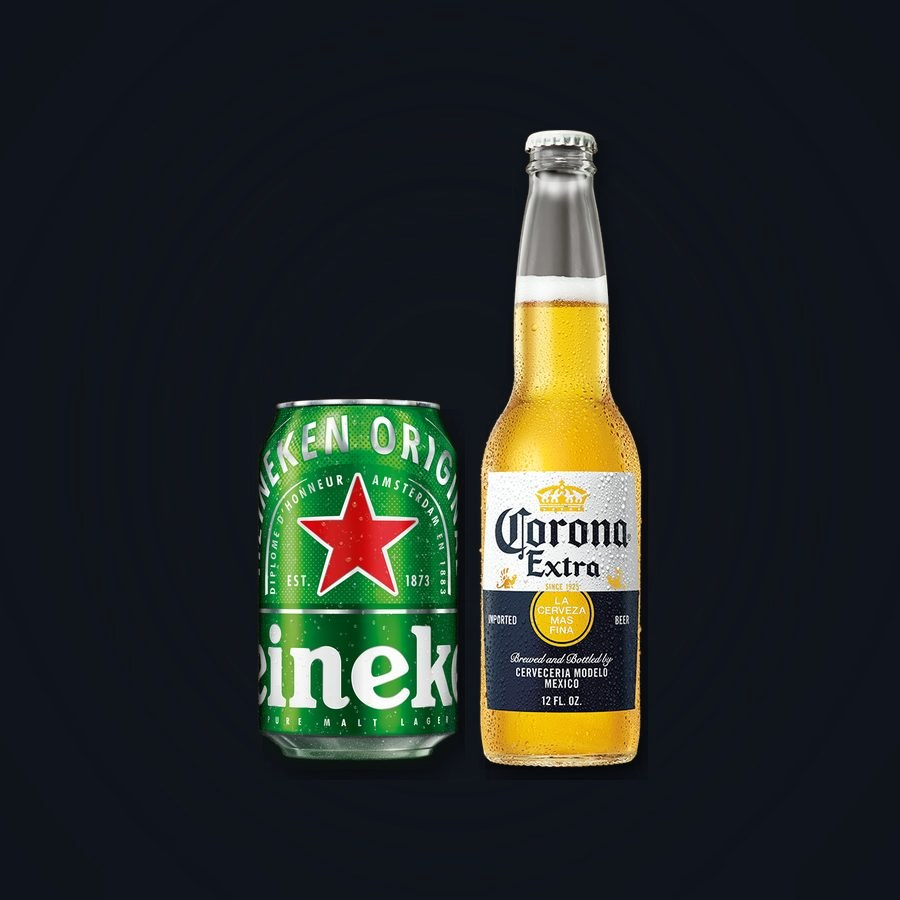
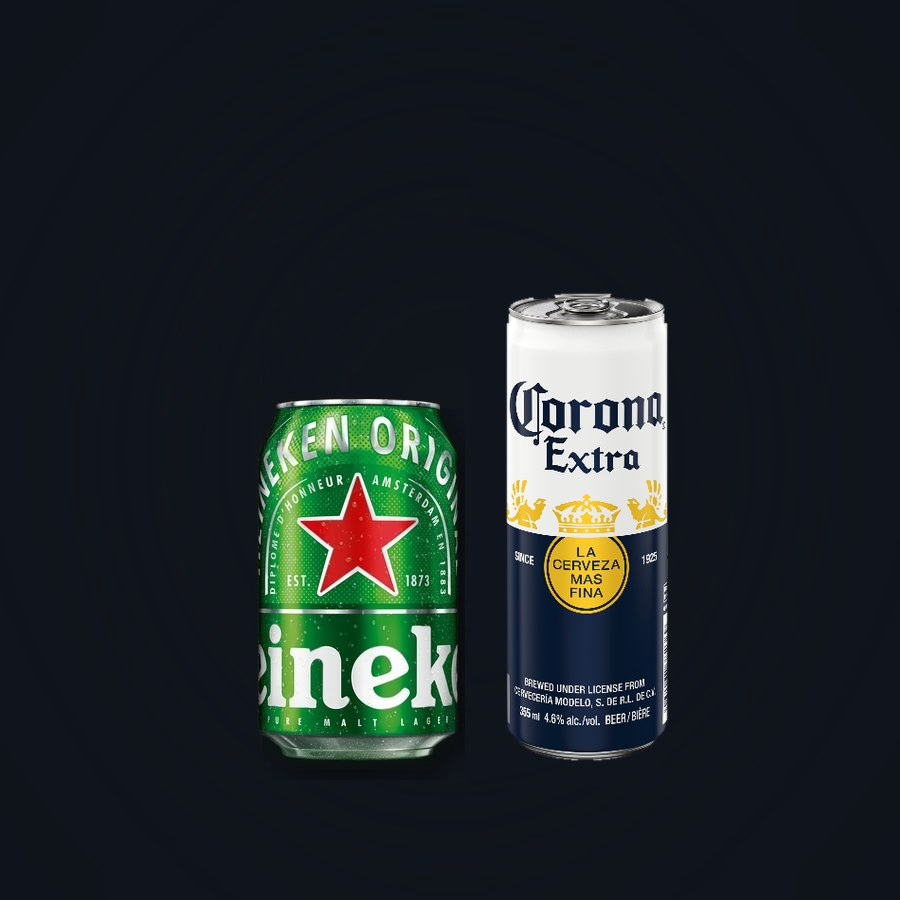
corona

Changed region(s): [[0.5289, 0.1244, 0.7467, 0.8711]]

diff --git a/public/barzunko.html b/public/barzunko.html
@@ -506,7 +506,7 @@
                 </div>
               </li>
               <li class="bz-menu-dish">
-                <span class="bz-menu-frame"><img class="bz-menu-photo" src="image/menu/imported-small-can.jpg?v=3" alt="Heineken can and Corona Extra bottle" width="900" height="900" loading="lazy" decoding="async" /></span>
+                <span class="bz-menu-frame"><img class="bz-menu-photo" src="image/menu/imported-small-can.jpg?v=4" alt="Heineken can and Corona Extra 355 mL can" width="900" height="900" loading="lazy" decoding="async" /></span>
                 <div class="bz-menu-dish-body">
                   <p class="bz-menu-dish-name">Imported</p>
                   <p class="bz-menu-dish-sub">Heineken | Corona</p>

diff --git a/public/thekkaraoke.html b/public/thekkaraoke.html
@@ -868,7 +868,7 @@
                 </div>
               </li>
               <li class="bz-menu-dish">
-                <span class="bz-menu-frame"><img class="bz-menu-photo" src="image/menu/ck/imported-small-can.jpg" alt="Heineken and Corona" width="900" height="900" loading="lazy" decoding="async" /></span>
+                <span class="bz-menu-frame"><img class="bz-menu-photo" src="image/menu/ck/imported-small-can.jpg?v=2" alt="Heineken can and Corona Extra 355 mL can" width="900" height="900" loading="lazy" decoding="async" /></span>
                 <div class="bz-menu-dish-body">
                   <p class="bz-menu-dish-name">Import</p>
                   <p class="bz-menu-dish-sub">Heineken | Corona</p>
